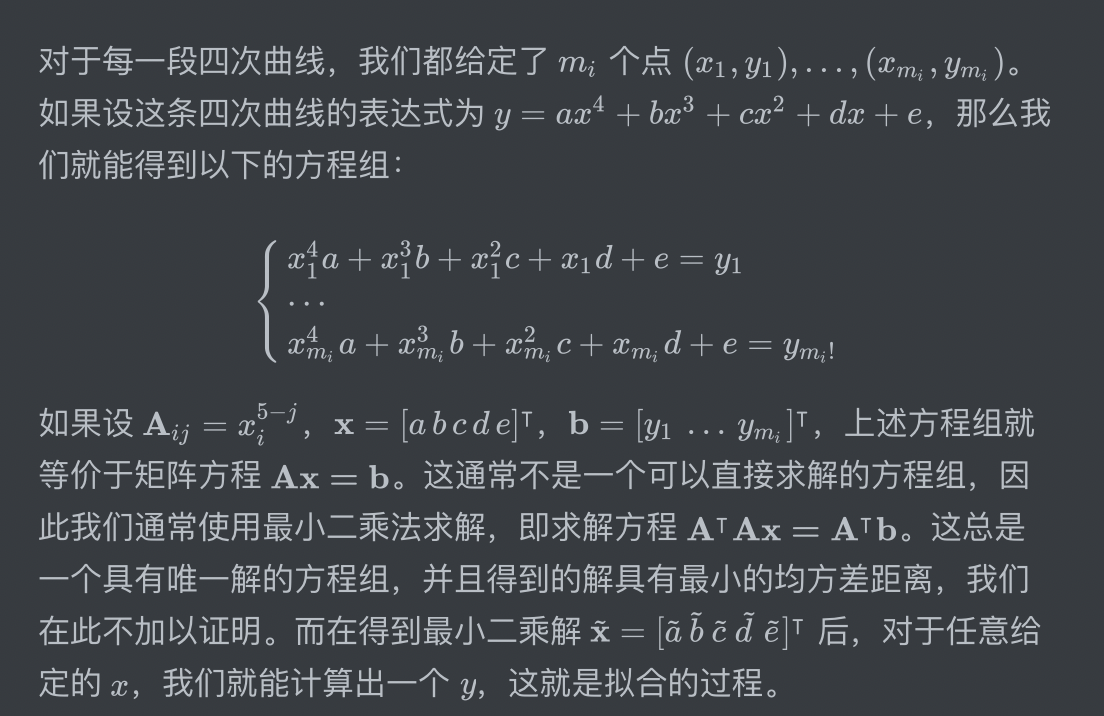
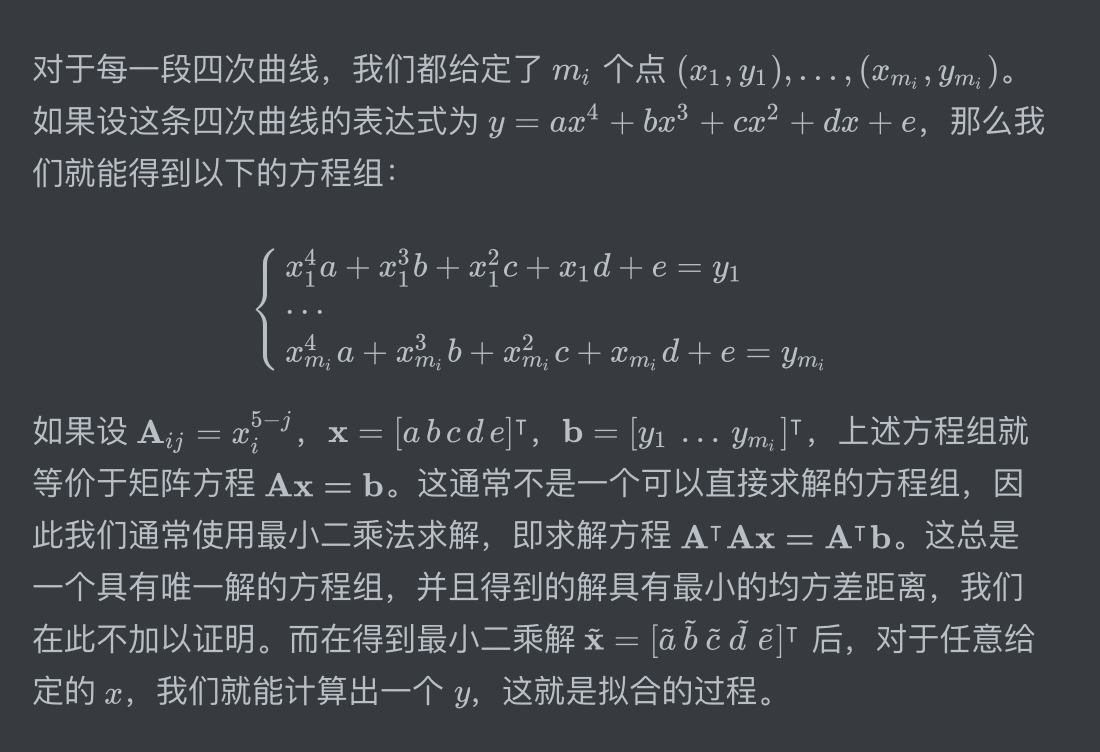
Fix extra ! in math equations

diff --git a/README.md b/README.md
@@ -21,7 +21,7 @@ $$
 \begin{cases}
 x_1^4a+x_1^3b+x_1^2c+x_1d+e=y_1 \\
 \cdots \\
-x_{m_i}^4a+x_{m_i}^3b+x_{m_i}^2c+x_{m_i}d+e=y_{m_i!}
+x_{m_i}^4a+x_{m_i}^3b+x_{m_i}^2c+x_{m_i}d+e=y_{m_i}
 \end{cases}
 $$
 如果设 $\mathbf{A}_{ij}=x_{i}^{5-j}$，$\mathbf{x}=[a\,b\,c\,d\,e]^\intercal$，$\mathbf{b}=[y_1\,\dots\,y_{m_i}]^\intercal$，上述方程组就等价于矩阵方程 $\mathbf{Ax=b}$。这通常不是一个可以直接求解的方程组，因此我们通常使用最小二乘法求解，即求解方程 $\mathbf{A^\intercal Ax=A^\intercal b}$。这总是一个具有唯一解的方程组，并且得到的解具有最小的均方差距离，我们在此不加以证明。而在得到最小二乘解 $\tilde{\mathbf{x}}=[\tilde{a}\,\tilde{b}\,\tilde{c}\,\tilde{d}\,\tilde{e}]^\intercal$ 后，对于任意给定的 $x$，我们就能计算出一个 $y$，这就是拟合的过程。
